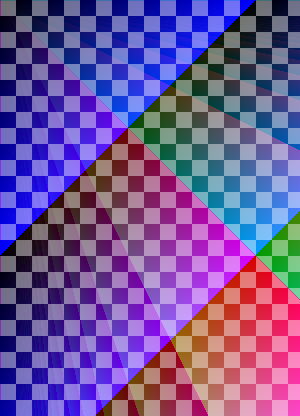
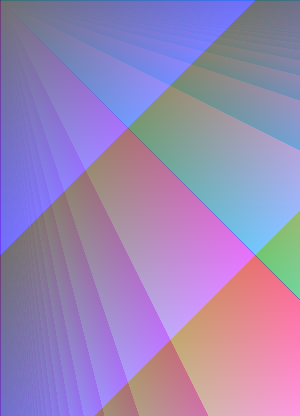
Import input and image_util bindings

diff --git a/.wd/scripts/image_generator.js b/.wd/scripts/image_generator.js
@@ -2,46 +2,14 @@ var width = 300;
 var height = 416;
 var data = [];
 
-var clamp         = (n, min = 0, max = 255) => Math.min(Math.max(n, min), max);
-var clampAndShift = (n, d) => clamp(n) << d;
-var scale         = (n, min, max) => (clamp(n, min, max) - min) / (max - min);
-
-const argbToInt = (c) => clampAndShift(c.a, 24) + clampAndShift(c.r, 16) + clampAndShift(c.g, 8) + clampAndShift(c.b, 0);
-const intToArgb = (n) => {
-	return {a:(n >> 24) & 0xFF, 
-		r:(n >> 16) & 0xFF, 
-		g:(n >> 8)  & 0xFF, 
-		b:(n >> 0)  & 0xFF};
-};
-
-const checker   = (x, y, n = 64) => ((x % n) < n / 2 ^ (y % n) < n / 2);
-const average   = (a, b) => (a + b) / 2;
-const merge 	= (c1, c2) => {
-	return {a: average(clamp(c1.a), clamp(c2.a)),
-		r: average(clamp(c1.r), clamp(c2.r)),
-		g: average(clamp(c1.g), clamp(c2.g)),
-		b: average(clamp(c1.b), clamp(c2.b))		
-	};
-};
-
-const clear = intToArgb(0x00FFFFFF);
-const white = intToArgb(0xFFFFFFFF);
-const grey  = intToArgb(0xFF777777);
-const lgrey = intToArgb(0xFFCCCCCC);
-const black = intToArgb(0xFF000000);
-
-const red   = intToArgb(0xFFFF0000);
-const green = intToArgb(0xFF00FF00);
-const blue  = intToArgb(0xFF0000FF);
-
 for (var y = 0 ; y < height ; y++) {
     for (var x = 0 ; x < width; x++) {
-	var c = {a: 255,
-		 r: scale(x % y , 0,  width ) * 255,
-		 g: scale(y % x , 0,  height) * 255,
-		 b: scale((x+y) % 255 , 0, 255) * 255};
+	var c = {a: a,
+		 r: scale(x % y , 0,  width ) * r,
+		 g: scale(y % x , 0,  height) * g,
+		 b: scale((x+y) % 255 , 0, 255) * b};
 	
-        var color = checker(x, y, 32) ? c : merge(c, merge(c, clear));
+        var color = checker4(x, y, 32) ? c : merge(c, merge(c, clear));
         data.push(argbToInt(color));
     }
 }

diff --git a/.wd/scripts/image_utils.js b/.wd/scripts/image_utils.js
@@ -1,0 +1,39 @@
+const clamp         = (n, min = 0, max = 255) => Math.min(Math.max(n, min), max);
+const clampAndShift = (n, d) => clamp(n) << d;
+const scale         = (n, min, max) => (clamp(n, min, max) - min) / (max - min);
+
+const argbToInt = (c) => {
+	return 	clampAndShift(c.a, 24) +
+		clampAndShift(c.r, 16) +
+		clampAndShift(c.g, 8) +
+		clampAndShift(c.b, 0);
+};
+const intToArgb = (n) => {
+	return {a:(n >> 24) & 0xFF,
+		r:(n >> 16) & 0xFF,
+		g:(n >> 8)  & 0xFF,
+		b:(n >> 0)  & 0xFF};
+};
+
+const checker   = (x, y, n = 64) => ((x % n) < n / 2 ^ (y % n) < n / 2);
+const checker4  = (a, r, g, b, n = 64) => {
+    f = (x, n) => (x % n) < (n / 4);
+    return f(a,n) ^ f(r,n) ^ f(g,n) ^ f(b,n);
+}
+const average   = (a, b) => (a + b) / 2;
+const merge 	= (c1, c2) => {
+	return {a: average(clamp(c1.a), clamp(c2.a)),
+		r: average(clamp(c1.r), clamp(c2.r)),
+		g: average(clamp(c1.g), clamp(c2.g)),
+		b: average(clamp(c1.b), clamp(c2.b))
+	};
+};
+
+const clear = intToArgb(0x00FFFFFF);
+const white = intToArgb(0xFFFFFFFF);
+const grey  = intToArgb(0xFF777777);
+const black = intToArgb(0xFF000000);
+
+const red   = intToArgb(0xFFFF0000);
+const green = intToArgb(0xFF00FF00);
+const blue  = intToArgb(0xFF0000FF);

diff --git a/modules/plugin-js/src/main/java/com/alver/plugin/TestApp.java b/modules/plugin-js/src/main/java/com/alver/plugin/TestApp.java
@@ -1,33 +1,30 @@
 package com.alver.plugin;
 
-import javafx.animation.KeyFrame;
-import javafx.animation.KeyValue;
-import javafx.animation.StrokeTransition;
-import javafx.animation.Timeline;
 import javafx.application.Application;
-import javafx.collections.ObservableList;
 import javafx.geometry.Insets;
 import javafx.scene.Scene;
+import javafx.scene.control.Menu;
+import javafx.scene.control.MenuBar;
+import javafx.scene.control.MenuItem;
 import javafx.scene.control.TextArea;
-import javafx.scene.image.*;
 import javafx.scene.image.Image;
+import javafx.scene.image.*;
 import javafx.scene.input.KeyCode;
 import javafx.scene.input.KeyEvent;
 import javafx.scene.layout.*;
 import javafx.scene.paint.Color;
-import javafx.scene.shape.Rectangle;
 import javafx.scene.text.Font;
-import javafx.scene.transform.Rotate;
+import javafx.stage.FileChooser;
 import javafx.stage.Stage;
-import javafx.util.Duration;
 import org.graalvm.polyglot.Context;
 import org.graalvm.polyglot.Source;
 import org.graalvm.polyglot.Value;
 
-import javafx.scene.shape.*;
-
-import java.awt.*;
-import java.io.*;
+import java.awt.Desktop;
+import java.io.File;
+import java.io.IOException;
+import java.io.PrintWriter;
+import java.io.StringWriter;
 import java.nio.IntBuffer;
 import java.nio.charset.StandardCharsets;
 import java.nio.file.Files;
@@ -42,6 +39,7 @@ public class TestApp extends Application {
     TextArea output;
     ImageView imageView;
     StackPane stackPane;
+    MenuBar menuBar;
 
     String JS_PATH = "scripts/image_generator.js";
     String IMG_PATH = "card_image.png";
@@ -71,6 +69,8 @@ public class TestApp extends Application {
         this.imageView = new ImageView();
         this.scene = new Scene(root);
         this.stage = stage;
+        this.menuBar = new MenuBar();
+        root.setTop(menuBar);
         root.setCenter(input);
         root.setBottom(output);
         stage.setScene(scene);
@@ -105,19 +105,27 @@ public class TestApp extends Application {
             if (e.isControlDown()) {
                 if (KeyCode.ENTER.equals(e.getCode())) {
                     execute();
-                    e.consume();
                 } else if (KeyCode.S.equals(e.getCode())) {
                     save(JS_PATH);
-                    e.consume();
                 } else if (KeyCode.L.equals(e.getCode())) {
                     load(JS_PATH);
-                    e.consume();
                 } else if (KeyCode.P.equals(e.getCode())) {
                     print(IMG_PATH);
-                    e.consume();
+                } else if (KeyCode.O.equals(e.getCode())) {
+                    openFile();
+                } else {
+                    //Don't consume
+                    return;
                 }
+                e.consume();
             }
         });
+
+        Menu fileMenu = new Menu("File");
+        MenuItem fileMenuItem = new MenuItem("Open");
+        fileMenuItem.setOnAction(e -> openFile());
+        fileMenu.getItems().add(fileMenuItem);
+        menuBar.getMenus().add(fileMenu);
 
         load(JS_PATH);
         execute();
@@ -129,10 +137,20 @@ public class TestApp extends Application {
     private void execute() {
         StringBuilder console = new StringBuilder();
         try (Context context = Context.newBuilder("js").build()) {
-            Source source = Source.newBuilder("js", input.getText(), "user-input").build();
             try {
-                Value value = context.eval(source);
                 Value jsBindings = context.getBindings("js");
+                jsBindings.putMember("a", 255);
+                jsBindings.putMember("r", 255);
+                jsBindings.putMember("g", 255);
+                jsBindings.putMember("b", 255);
+                console.append("-- Input --").append(System.lineSeparator());
+                console.append("a: ").append(jsBindings.getMember("a")).append(System.lineSeparator());
+                console.append("r: ").append(jsBindings.getMember("r")).append(System.lineSeparator());
+                console.append("g: ").append(jsBindings.getMember("g")).append(System.lineSeparator());
+                console.append("b: ").append(jsBindings.getMember("b")).append(System.lineSeparator());
+
+                context.eval(Source.newBuilder("js", Path.of("scripts/image_utils.js").toFile()).build());
+                Value value = context.eval(Source.newBuilder("js", input.getText(), "user-input").build());
 
                 int width = jsBindings.getMember("width").asInt();
                 int height = jsBindings.getMember("height").asInt();
@@ -148,7 +166,7 @@ public class TestApp extends Application {
                 imageView.setImage(img);
                 output.setBorder(GREEN_BORDER);
 
-                console.append("-- Output --").append(System.lineSeparator());
+                console.append(System.lineSeparator()).append("-- Output --").append(System.lineSeparator());
                 console.append(value.as(Object.class)).append(System.lineSeparator());
             } finally {
                 Value jsBindings = context.getBindings("js");
@@ -215,5 +233,12 @@ public class TestApp extends Application {
             output.setText("Print Failed: " + fileName);
             output.setBorder(RED_BORDER);
         }
+    }
+
+    private void openFile(){
+        FileChooser fileChooser = new FileChooser();
+        fileChooser.setInitialDirectory(Path.of("scripts").toFile());
+        File file = fileChooser.showOpenDialog(stage.getOwner());
+        load(file.getPath());
     }
 }
